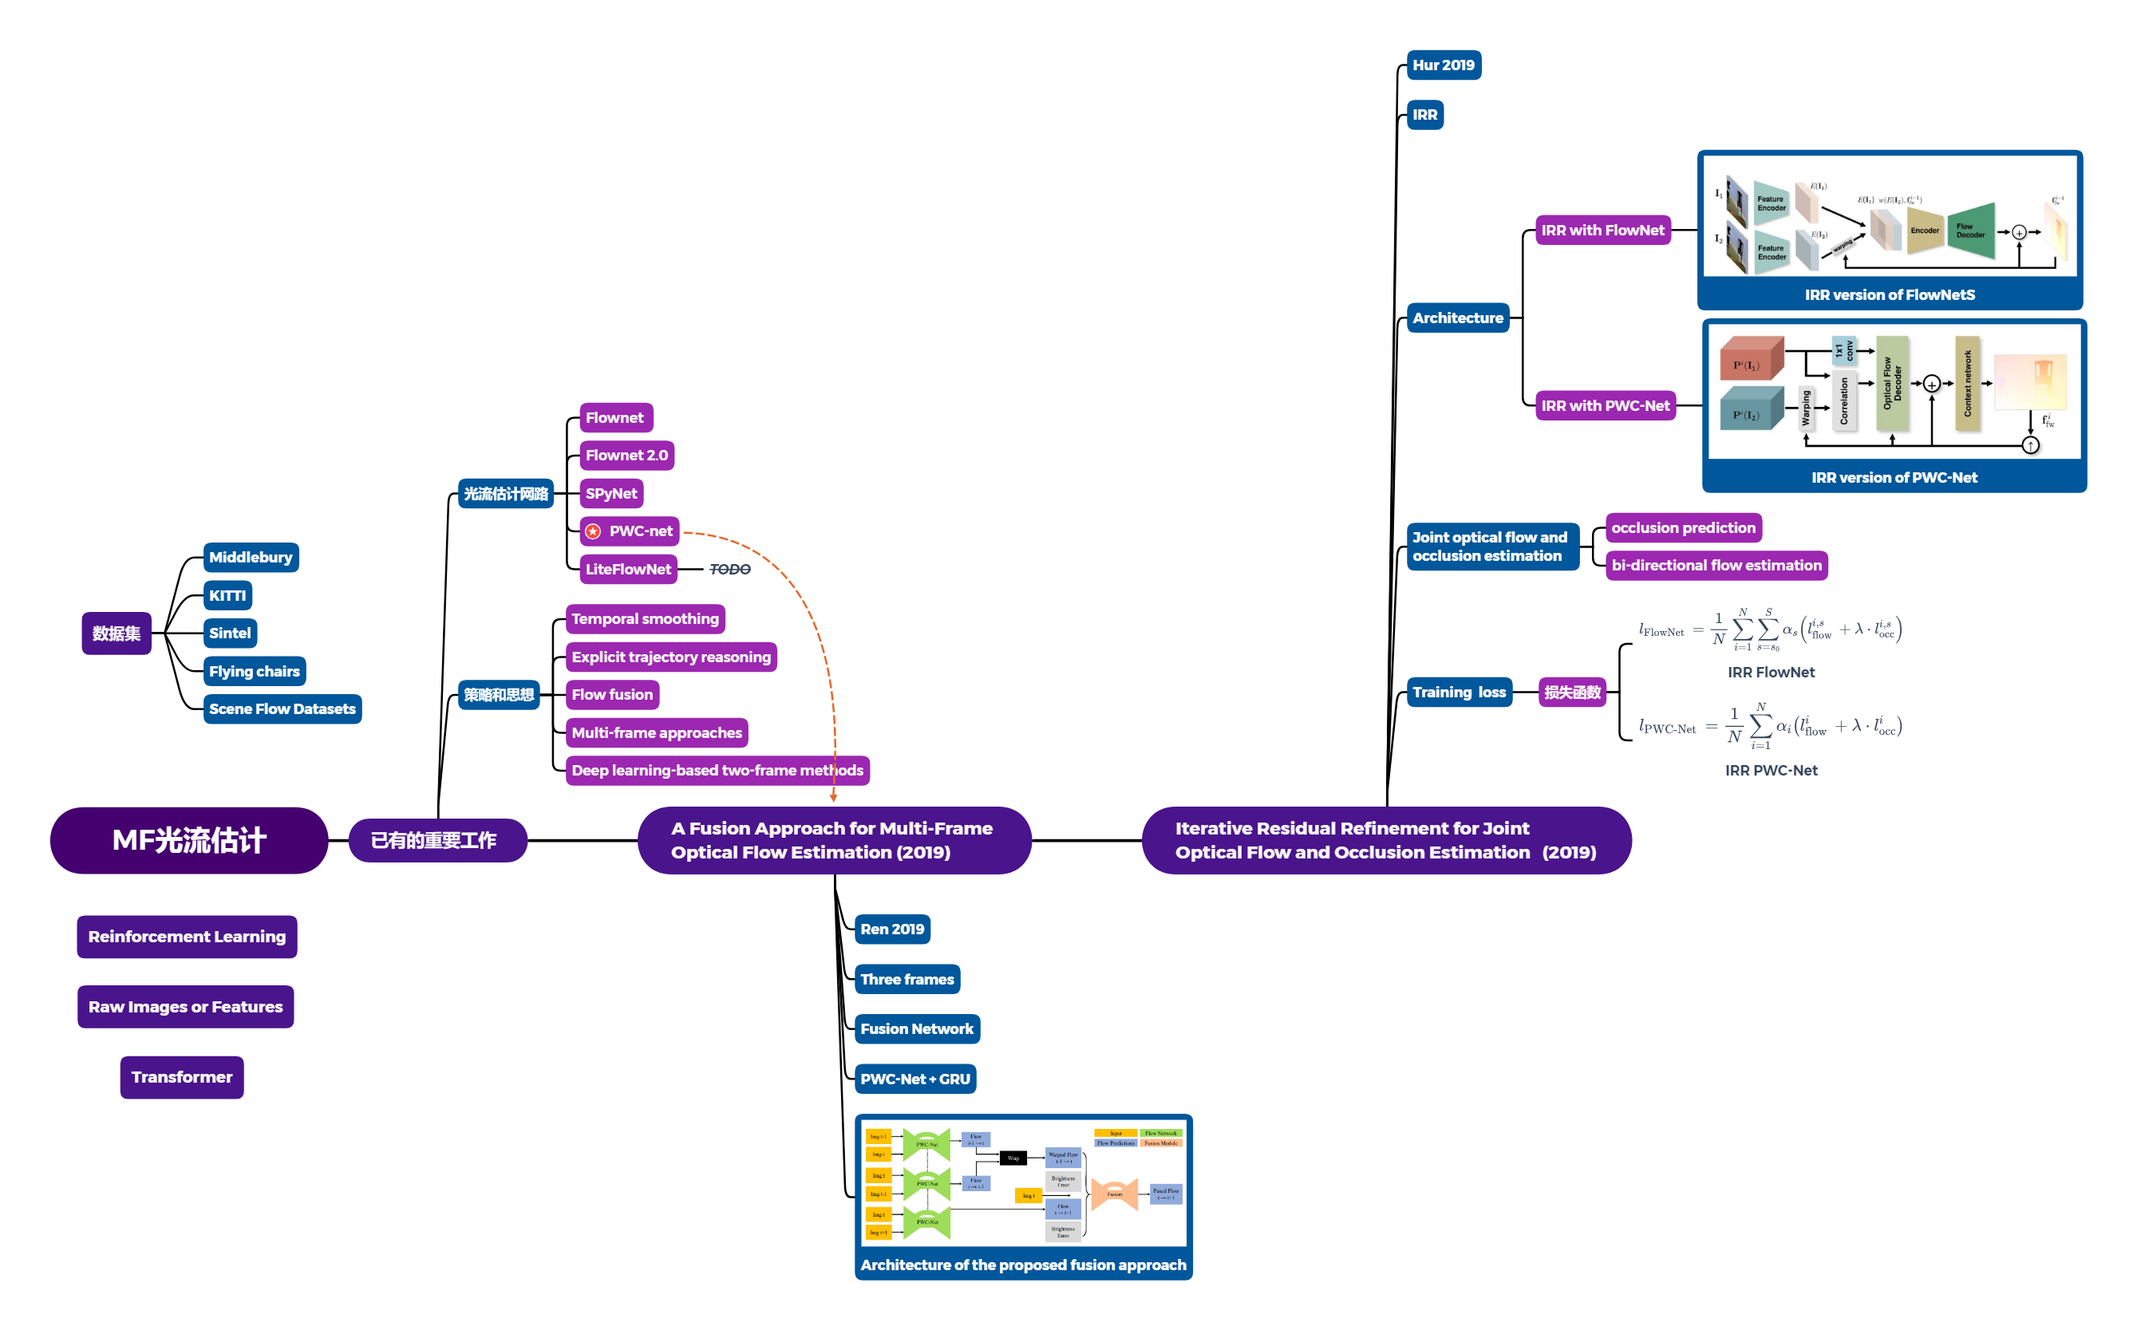
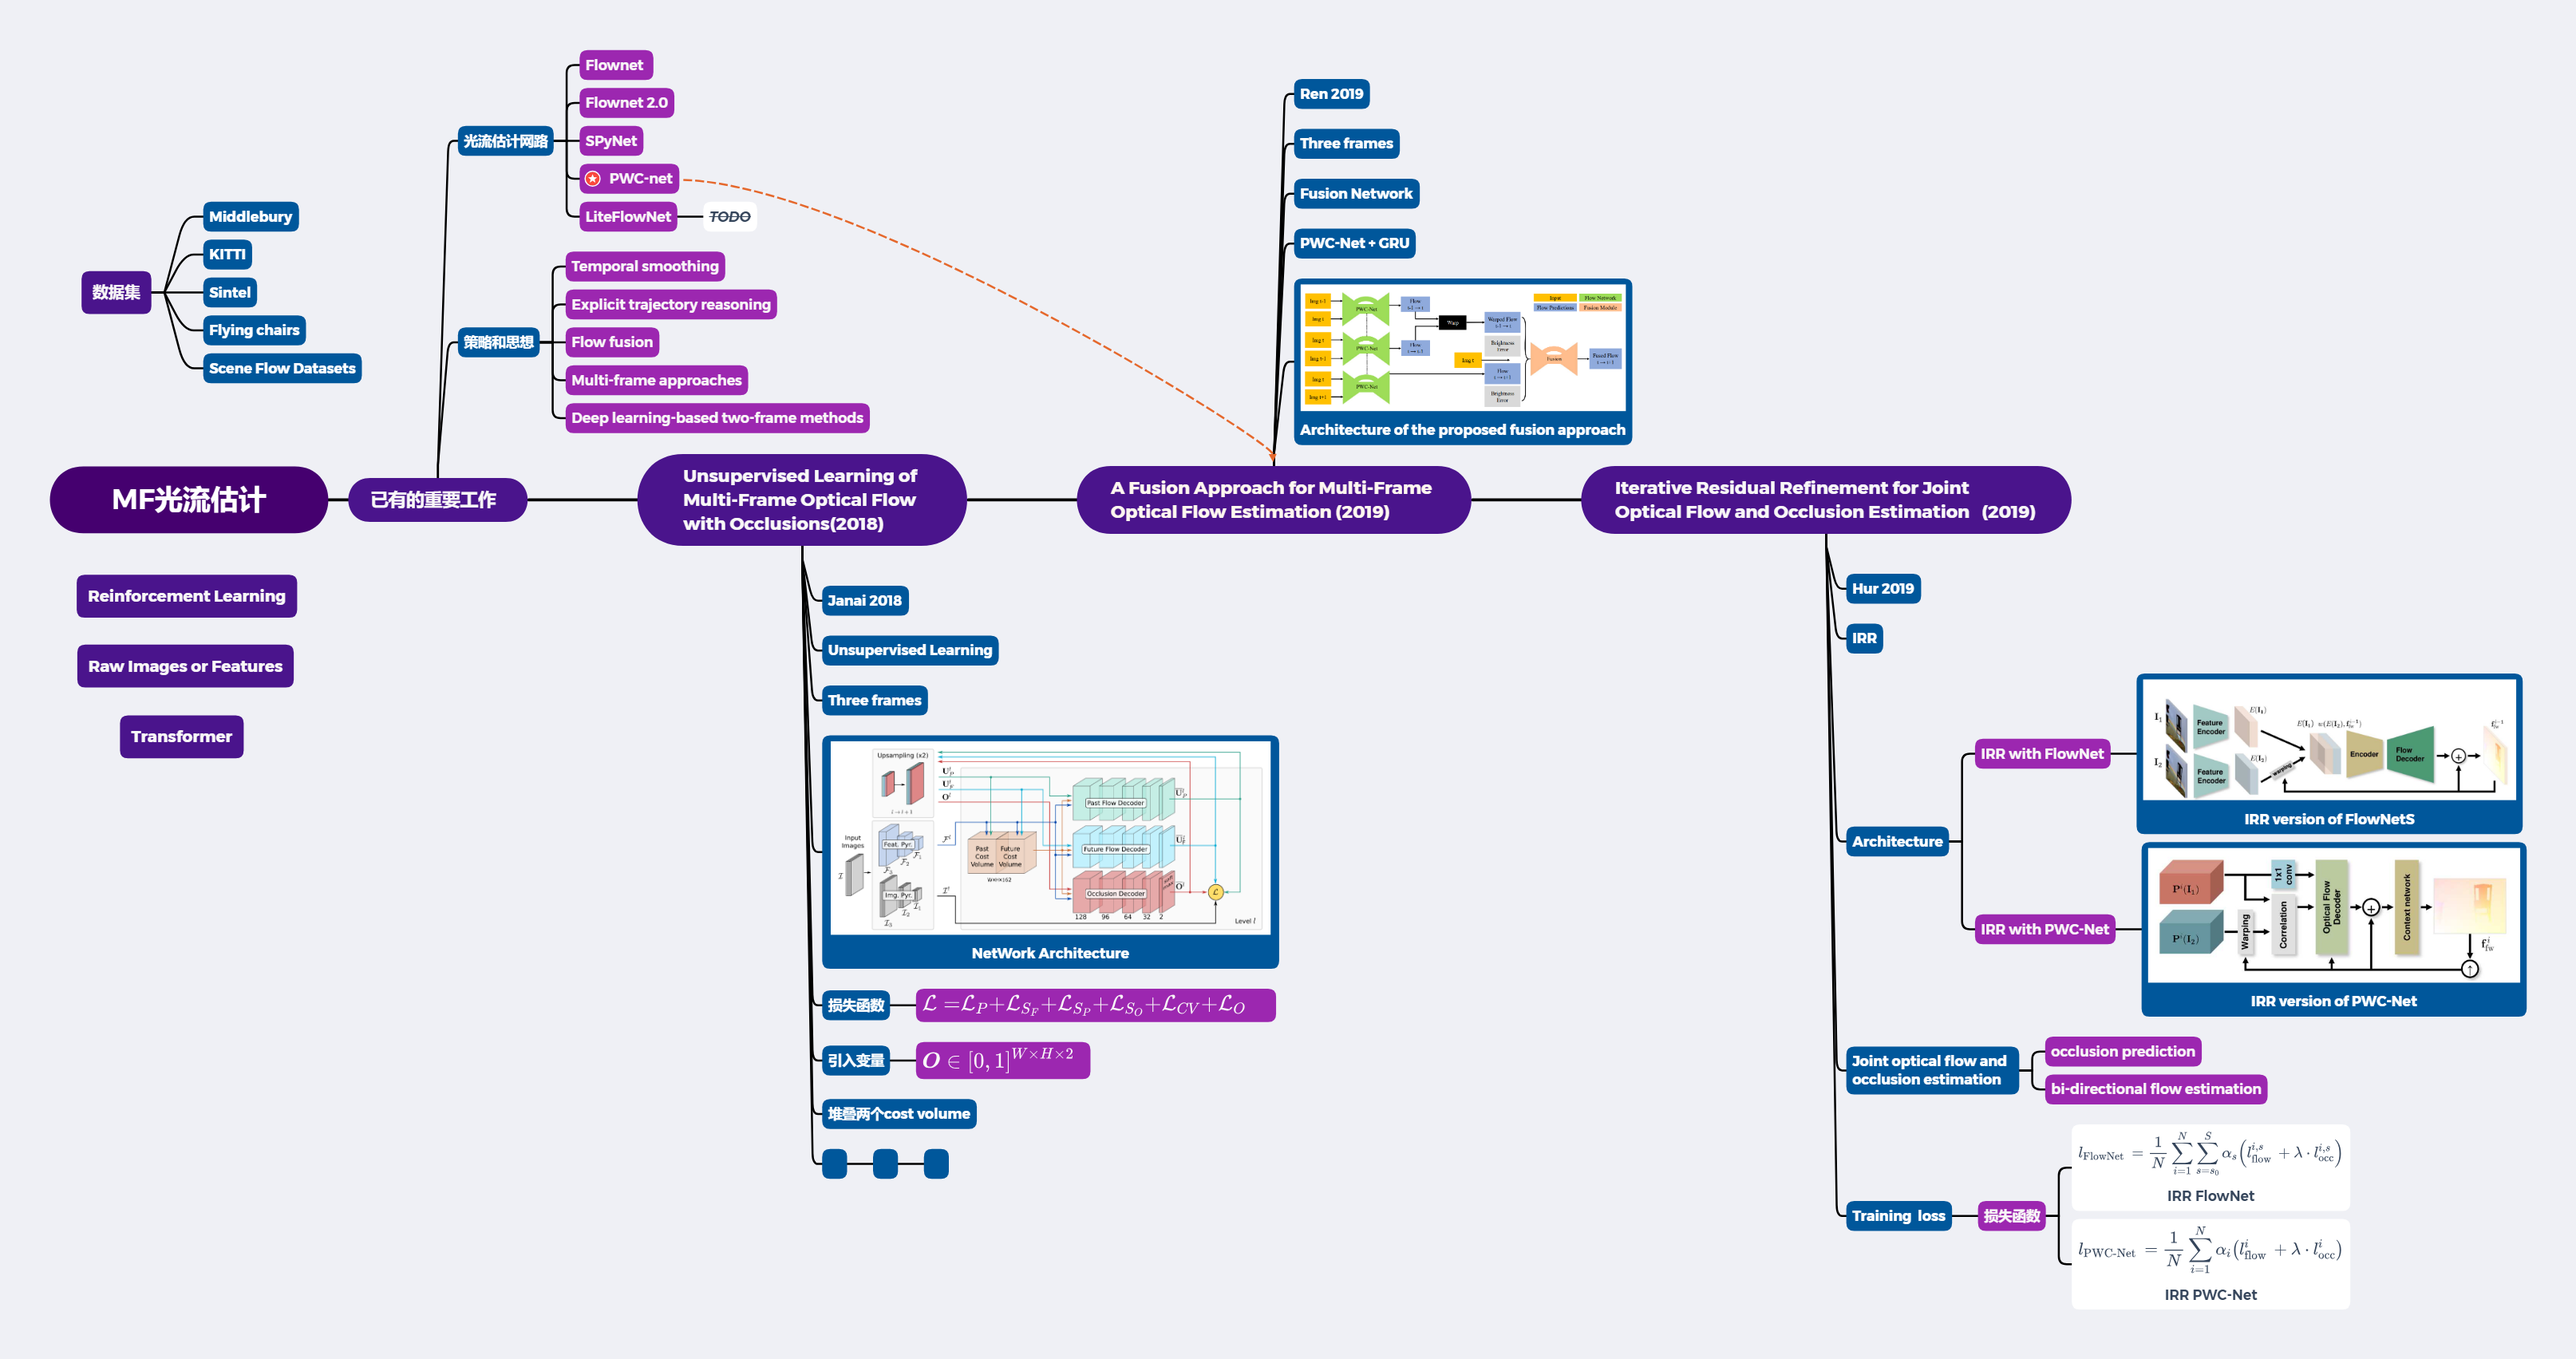
9.15 windows

diff --git a/Clock-in/21-9-15.md b/Clock-in/21-9-15.md
@@ -1,25 +1,63 @@
 <img src = "https://img.shields.io/badge/Info%20%26%20Date-blueviolet" align="left">
 
-<font color=gray size=3>日期</font>: 2021年9月14日 星期二        <font color=gray size=3>姓名</font>:  陈勇虎   
+<font color=gray size=3>日期</font>: 2021年9月15日 星期三        <font color=gray size=3>姓名</font>:  陈勇虎   
 
 <img src = "https://img.shields.io/badge/-Plan-blueviolet" align="left">
 
-- [ ] TODO
-- [ ] TODO
+- [ ] 阅读《Unsupervised Learning of Multi-Frame Optical Flow with Occlusions》[1]
+- [ ] 学习PWC-Net的corr模块
+- [ ] 编写python版本的光流flo转换为png的代码并测试
 
 <img src = "https://img.shields.io/badge/-Do-blueviolet" align="left">
 
-- [ ] TODO
-- [ ] TODO
+- [ ] 阅读《Unsupervised Learning of Multi-Frame Optical Flow with Occlusions》
+- [ ] 学习PWC-Net的corr模块
+- [ ] 编写python版本的光流flo转换为png的代码并测试
 
 <img src = "https://img.shields.io/badge/-Check-blueviolet" align="left">
 
-- [ ] TODO
-- [ ] TODO
+- [ ] 阅读《Unsupervised Learning of Multi-Frame Optical Flow with Occlusions》
+
+  <img src = "C:\Users\陈勇虎\Desktop\Daily-Summary\Summary\images\UMFO.png" align="center" style="width:85%">
+
+  论文提出的模型是对PWC-Net模型进行了修改，同时输入是三帧图片，PWC中对两帧图片的特征金字塔做cost volume(第二帧的特征需要经过一次warping)，本文提出的模型是对$\mathcal{F}^p$ 和 $\mathcal{F}^f$分别计算cost volume，最后将两个cost volume进行堆叠，传入后面的解码器中。
+
+  在损失函数方面，提出了如下的损失函数：
+  $$
+  \mathcal{L}=\mathcal{L}_P+\mathcal{L}_{S_F}+\mathcal{L}_{S_P}+\mathcal{L}_{S_O}+\mathcal{L}_{CV}+\mathcal{L}_{O}
+  $$
+  论文引入了$\boldsymbol{O}\in[0,1]^{W\times H\times 2}$用来衡量photometric losss，并且使用softmax保持$||\boldsymbol{O}(p)||_1=1$ 。
+
+  损失函数中各项表达式依次如下:
+  $$
+  \begin{aligned}
+  \mathcal{L}_{P} &=\sum_{\mathbf{p} \in \Omega} \mathbf{O}^{(2)}(\mathbf{p}) \cdot \delta\left(\hat{\mathbf{I}}_{P}\left(\mathbf{p}+\mathbf{u}_{P}(\mathbf{p})\right), \mathbf{I}_{R}(\mathbf{p})\right) \\
+  &+\sum_{\mathbf{p} \in \Omega} \mathbf{O}^{(1)}(\mathbf{p}) \cdot \delta\left(\hat{\mathbf{I}}_{F}\left(\mathbf{p}+\mathbf{u}_{F}(\mathbf{p})\right), \mathbf{I}_{R}(\mathbf{p})\right)
+  \end{aligned}
+  $$
+
+  $$
+  \mathcal{L}_{S_{P}}=\sum_{\mathbf{p} \in \Omega} \xi\left(\nabla_{x} \mathbf{I}_{R}(\mathbf{p})\right) \rho\left(\nabla_{x} \mathbf{U}_{P}(\mathbf{p})\right)+\sum_{\mathbf{p} \in \Omega} \xi\left(\nabla_{y} \mathbf{I}_{R}(\mathbf{p})\right) \rho\left(\nabla_{y} \mathbf{U}_{P}(\mathbf{p})\right)
+  $$
+
+  $$
+  \mathcal{L}_{S_{O}}=\sum_{\mathbf{p} \in \Omega} \xi\left(\nabla_{x} \mathbf{I}_{R}(\mathbf{p})\right)\left\|\nabla_{x} \mathbf{O}(\mathbf{p})\right\|^{2}+\sum_{\mathbf{p} \in \Omega} \xi\left(\nabla_{y} \mathbf{I}_{R}(\mathbf{p})\right)\left\|\nabla_{y} \mathbf{O}(\mathbf{p})\right\|^{2}
+  $$
+
+  $$
+  \mathcal{L}_{C V}=\sum_{\mathbf{p} \in \Omega} \rho\left(\mathbf{U}_{P}(\mathbf{p})+\mathbf{U}_{F}(\mathbf{p})\right)
+  $$
+
+  $$
+  \mathcal{L}_{O}=-\sum_{\mathbf{p} \in \Omega} \mathbf{O}^{(1)}(\mathbf{p}) \cdot \mathbf{O}^{(2)}(\mathbf{p})
+  $$
+
+- [ ] 学习PWC-Net的corr模块
+
+- [ ] 编写python版本的光流flo转换为png的代码并测试
 
 <img src = "https://img.shields.io/badge/-Action-blueviolet" align="left">
 
-- [ ] 编写python版本的光流flo转换为png的代码并测试
 - [ ] 继续调研光流法动态感知领域的应用算法和光流估计算法
 - [ ] 阅读和学习论文源码
 - [ ] 重构PWC-Net源码解决版本不匹配带来的诸多问题，尽量修改和编译好官方的代码
@@ -27,8 +65,9 @@
 
 <img src = "https://img.shields.io/badge/-Reference-blueviolet" align = "left">
 
-1. TODO
-2. TODO
+1. Janai, Joel, Fatma Güney, Anurag Ranjan, Michael Black, and Andreas Geiger. 2018. “Unsupervised Learning of Multi-Frame Optical Flow with Occlusions.” In *Computer Vision – ECCV 2018*, edited by Vittorio Ferrari, Martial Hebert, Cristian Sminchisescu, and Yair Weiss, 11220:713–31. Lecture Notes in Computer Science. Cham: Springer International Publishing. https://doi.org/10.1007/978-3-030-01270-0_42.
+
+   
 
 
 

diff --git a/Summary/Multi-Frame-Optical-Flow.md b/Summary/Multi-Frame-Optical-Flow.md
@@ -1,6 +1,8 @@
 [toc]
 
-# PWCNet Fusion (WACV 2019)
+# MFF（Multi-Frame FLow）
+
+## PWCNet Fusion (WACV 2019)
 
 **Paper : A Fusion Approach for Multi-Frame Optical Flow Estimation**
 
@@ -43,7 +45,7 @@ $$
 
 <img src = "./images/PWCNetFusion3.png" align="center" style="width:90%">
 
-# IRR-PWCNet (CVPR 2019)
+## IRR-PWCNet (CVPR 2019)
 
 **Paper : Iterative Residual Refinement for Joint Optical Flow and Occlusion Estimation**
 
@@ -79,5 +81,43 @@ $$
 
 $$
 l_{\text {PWC-Net }}=\frac{1}{N} \sum_{i=1}^{N} \alpha_{i}\left(l_{\text {flow }}^{i}+\lambda \cdot l_{\mathrm{occ}}^{i}\right)
+$$
+
+## UMFO
+
+**Paper: Unsupervised Learning of Multi-Frame Optical Flow and Occlusions**
+
+<img src = "./images/UMFO.png" align="center" style="width:85%">
+
+论文提出的模型是对PWC-Net模型进行了修改，同时输入是三帧图片，PWC中对两帧图片的特征金字塔做cost volume(第二帧的特征需要经过一次warping)，本文提出的模型是对$\mathcal{F}^p$ 和 $\mathcal{F}^f$分别计算cost volume，最后将两个cost volume进行堆叠，传入后面的解码器中。
+
+在损失函数方面，提出了如下的损失函数：
+$$
+\mathcal{L}=\mathcal{L}_P+\mathcal{L}_{S_F}+\mathcal{L}_{S_P}+\mathcal{L}_{S_O}+\mathcal{L}_{CV}+\mathcal{L}_{O}
+$$
+论文引入了$\boldsymbol{O}\in[0,1]^{W\times H\times 2}$用来衡量photometric losss，并且使用softmax保持$||\boldsymbol{O}(p)||_1=1$ 。
+
+损失函数中各项表达式依次如下:
+$$
+\begin{aligned}
+\mathcal{L}_{P} &=\sum_{\mathbf{p} \in \Omega} \mathbf{O}^{(2)}(\mathbf{p}) \cdot \delta\left(\hat{\mathbf{I}}_{P}\left(\mathbf{p}+\mathbf{u}_{P}(\mathbf{p})\right), \mathbf{I}_{R}(\mathbf{p})\right) \\
+&+\sum_{\mathbf{p} \in \Omega} \mathbf{O}^{(1)}(\mathbf{p}) \cdot \delta\left(\hat{\mathbf{I}}_{F}\left(\mathbf{p}+\mathbf{u}_{F}(\mathbf{p})\right), \mathbf{I}_{R}(\mathbf{p})\right)
+\end{aligned}
+$$
+
+$$
+\mathcal{L}_{S_{P}}=\sum_{\mathbf{p} \in \Omega} \xi\left(\nabla_{x} \mathbf{I}_{R}(\mathbf{p})\right) \rho\left(\nabla_{x} \mathbf{U}_{P}(\mathbf{p})\right)+\sum_{\mathbf{p} \in \Omega} \xi\left(\nabla_{y} \mathbf{I}_{R}(\mathbf{p})\right) \rho\left(\nabla_{y} \mathbf{U}_{P}(\mathbf{p})\right)
+$$
+
+$$
+\mathcal{L}_{S_{O}}=\sum_{\mathbf{p} \in \Omega} \xi\left(\nabla_{x} \mathbf{I}_{R}(\mathbf{p})\right)\left\|\nabla_{x} \mathbf{O}(\mathbf{p})\right\|^{2}+\sum_{\mathbf{p} \in \Omega} \xi\left(\nabla_{y} \mathbf{I}_{R}(\mathbf{p})\right)\left\|\nabla_{y} \mathbf{O}(\mathbf{p})\right\|^{2}
+$$
+
+$$
+\mathcal{L}_{C V}=\sum_{\mathbf{p} \in \Omega} \rho\left(\mathbf{U}_{P}(\mathbf{p})+\mathbf{U}_{F}(\mathbf{p})\right)
+$$
+
+$$
+\mathcal{L}_{O}=-\sum_{\mathbf{p} \in \Omega} \mathbf{O}^{(1)}(\mathbf{p}) \cdot \mathbf{O}^{(2)}(\mathbf{p})
 $$
 

diff --git a/Clock-in/21-9-16.md b/Clock-in/21-9-16.md
@@ -1,0 +1,46 @@
+<img src = "https://img.shields.io/badge/Info%20%26%20Date-blueviolet" align="left">
+
+<font color=gray size=3>日期</font>: 2021年9月16日 星期四        <font color=gray size=3>姓名</font>:  陈勇虎   
+
+<img src = "https://img.shields.io/badge/-Plan-blueviolet" align="left">
+
+- [ ] 
+
+<img src = "https://img.shields.io/badge/-Do-blueviolet" align="left">
+
+- [ ] 
+
+<img src = "https://img.shields.io/badge/-Check-blueviolet" align="left">
+
+- [ ] 
+
+
+<img src = "https://img.shields.io/badge/-Action-blueviolet" align="left">
+
+- [ ] 继续调研光流法动态感知领域的应用算法和光流估计算法
+- [ ] 阅读和学习论文源码
+- [ ] 重构PWC-Net源码解决版本不匹配带来的诸多问题，尽量修改和编译好官方的代码
+- [ ] 调研和收集Transformer的应用
+
+<img src = "https://img.shields.io/badge/-Reference-blueviolet" align = "left">
+
+1. 
+
+   
+
+
+
+
+
+
+
+
+
+
+
+
+
+
+
+
+
